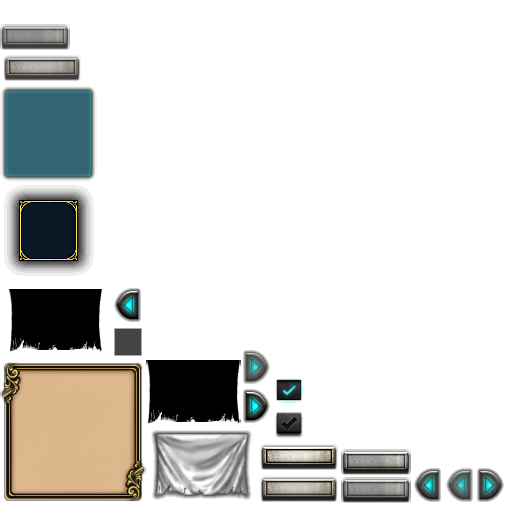
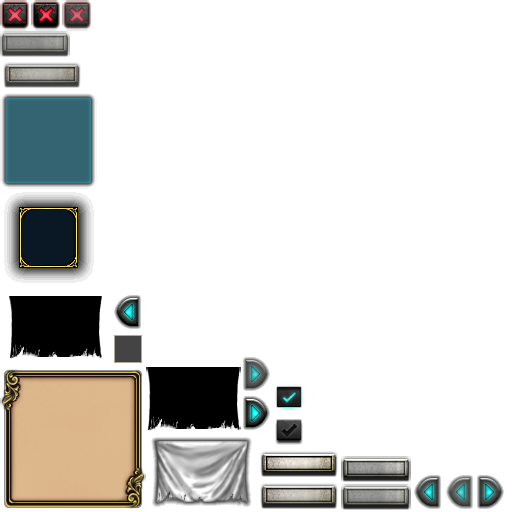
feat : province panel
Add a new button exit in the main skin + reload it

Add some new objet in the province panel, and update few objet according
the selected province

diff --git a/core/src/main/java/com/populaire/projetguerrefroide/ui/ProvincePanel.java b/core/src/main/java/com/populaire/projetguerrefroide/ui/ProvincePanel.java
@@ -1,16 +1,97 @@
 package com.populaire.projetguerrefroide.ui;
 
-import com.badlogic.gdx.scenes.scene2d.ui.Skin;
-import com.badlogic.gdx.scenes.scene2d.ui.Table;
+import com.badlogic.gdx.scenes.scene2d.InputEvent;
+import com.badlogic.gdx.scenes.scene2d.ui.*;
+import com.badlogic.gdx.scenes.scene2d.utils.ClickListener;
 import com.badlogic.gdx.scenes.scene2d.utils.Drawable;
 import com.populaire.projetguerrefroide.service.LabelStylePool;
 
 import java.util.Map;
 
 public class ProvincePanel extends Table {
+    private final Skin skin;
+    private final Map<String, String> localisation;
+    private Image terrainImage;
+    private Label provinceName;
+    private Label regionName;
+
     public ProvincePanel(Skin skin, Skin skinUi, LabelStylePool labelStylePool, Map<String, String> localisation) {
+        this.skin = skin;
+        this.localisation = localisation;
         Drawable background = skin.getDrawable("bg_province");
         this.setBackground(background);
         this.setSize(background.getMinWidth(), background.getMinHeight());
+        this.setHeader(skin, skinUi, labelStylePool);
+        this.setDataOverview(skin, skinUi, labelStylePool);
     }
+
+    private void setHeader(Skin skin, Skin skinUi, LabelStylePool labelStylePool) {
+        this.terrainImage = new Image();
+        this.terrainImage.setPosition(26, 315);
+
+        Image overlay = this.createImage(skin, "prov_overlay", 26, 315);
+
+        Button closeButton = new Button(skinUi, "close_btn");
+        closeButton.setPosition(354, 455);
+        closeButton.addListener(new ClickListener() {
+            @Override
+            public void clicked(InputEvent event, float x, float y) {
+                ProvincePanel.this.remove();
+            }
+        });
+
+        Label.LabelStyle labelStyleJockey24 = labelStylePool.getLabelStyle("jockey_24");
+        this.provinceName = new Label("", labelStyleJockey24);
+
+        this.addActor(this.terrainImage);
+        this.addActor(overlay);
+        this.addActor(closeButton);
+        this.addActor(this.provinceName);
+    }
+
+    private void setDataOverview(Skin skin, Skin skinUi, LabelStylePool labelStylePool) {
+        Table dataOverview = new Table();
+        Drawable background = skin.getDrawable("bg_province_paper");
+        dataOverview.setBackground(background);
+        dataOverview.setSize(background.getMinWidth(), background.getMinHeight());
+        dataOverview.setPosition(12, 75);
+
+        Label.LabelStyle labelStyleJockey16Paper = labelStylePool.getLabelStyle("jockey_16_paper");
+
+        this.regionName = new Label("", labelStyleJockey16Paper);
+        dataOverview.addActor(this.regionName);
+
+        dataOverview.addActor(this.createImage(skin, "prov_pop_icon", 22, 67));
+        dataOverview.addActor(this.createImage(skin, "icon_workers_small", 22, 44));
+        dataOverview.addActor(this.createImage(skin, "prov_DI", 22, 22));
+        dataOverview.addActor(this.createImage(skin, "icon_dollar_big", 145, 38));
+        dataOverview.addActor(this.createImage(skin, "icon_industry_small", 265, 53));
+        dataOverview.addActor(this.createImage(skin, "prov_build_infra", 165, 160));
+        dataOverview.addActor(this.createImage(skin, "icon_militia_small", 285, 202));
+
+        this.addActor(dataOverview);
+    }
+
+    private Image createImage(Skin skin, String drawableName, float x, float y) {
+        Image image = new Image(skin.getDrawable(drawableName));
+        image.setPosition(x, y);
+        return image;
+    }
+
+    public void setProvinceName(String name) {
+        this.provinceName.setText(this.localisation.get(name));
+        this.provinceName.setPosition(this.getWidth() / 2 - this.provinceName.getMinWidth() / 2, 471);
+    }
+
+    public void setRegionName(String name) {
+        this.regionName.setText(name);
+        this.regionName.setPosition(this.regionName.getParent().getWidth() / 2 - this.regionName.getMinWidth() / 2, 105);
+    }
+
+    public void setTerrainImage(String name) {
+        Drawable terrain = this.skin.getDrawable("prov_terrain_" + name);
+        this.terrainImage.setDrawable(terrain);
+        this.terrainImage.setSize(terrain.getMinWidth(), terrain.getMinHeight());
+    }
+
 }

diff --git a/core/src/main/java/com/populaire/projetguerrefroide/screen/GameScreen.java b/core/src/main/java/com/populaire/projetguerrefroide/screen/GameScreen.java
@@ -153,8 +153,6 @@ public class GameScreen implements Screen, GameInputListener, MainMenuInGameList
     public void onClick(short x, short y) {
         if(this.worldService.selectProvince(x, y)) {
             this.showProvincePanel();
-        } else {
-            this.provincePanel.remove();
         }
     }
 
@@ -266,6 +264,9 @@ public class GameScreen implements Screen, GameInputListener, MainMenuInGameList
     }
 
     private void showProvincePanel() {
+        this.provincePanel.setProvinceName(this.worldService.getSelectedProvinceId());
+        this.provincePanel.setRegionName(this.worldService.getRegionIdOfSelectedProvince());
+        this.provincePanel.setTerrainImage(this.worldService.getTerrainOfSelectedProvince());
         this.stage.addActor(this.provincePanel);
     }
 

diff --git a/core/src/main/java/com/populaire/projetguerrefroide/service/WorldService.java b/core/src/main/java/com/populaire/projetguerrefroide/service/WorldService.java
@@ -54,6 +54,18 @@ public class WorldService {
         return this.world.getSelectedProvince() != null;
     }
 
+    public String getSelectedProvinceId() {
+        return String.valueOf(this.world.getSelectedProvince().getId());
+    }
+
+    public String getTerrainOfSelectedProvince() {
+        return this.world.getSelectedProvince().getTerrain().getName();
+    }
+
+    public String getRegionIdOfSelectedProvince() {
+        return this.world.getSelectedProvince().getRegion().getId();
+    }
+
     public boolean setCountryPlayer() {
         return this.world.setCountryPlayer();
     }
